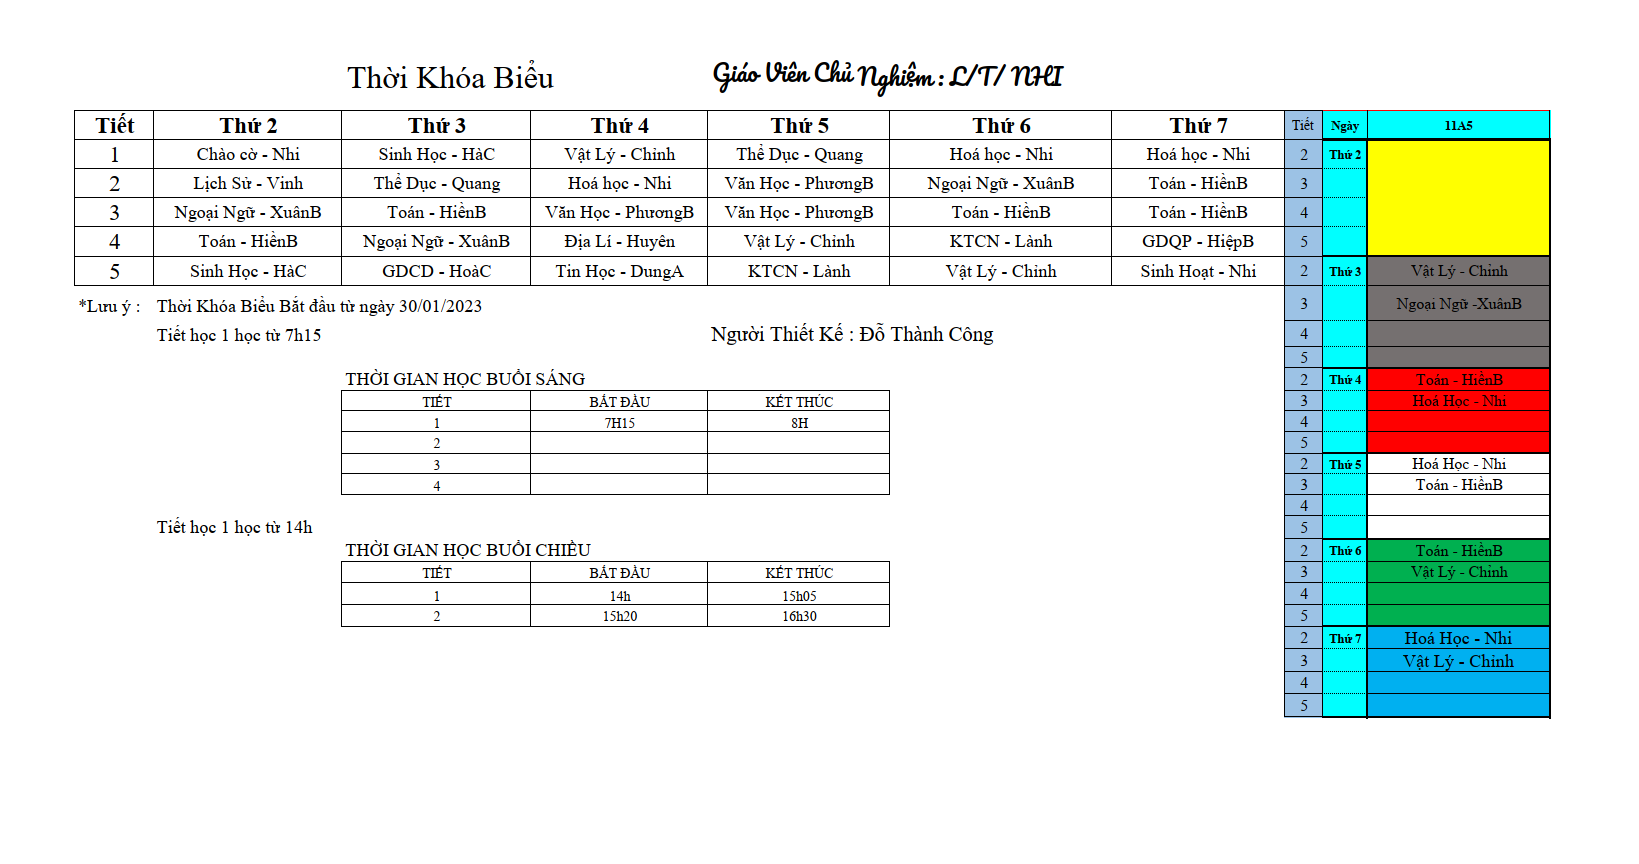
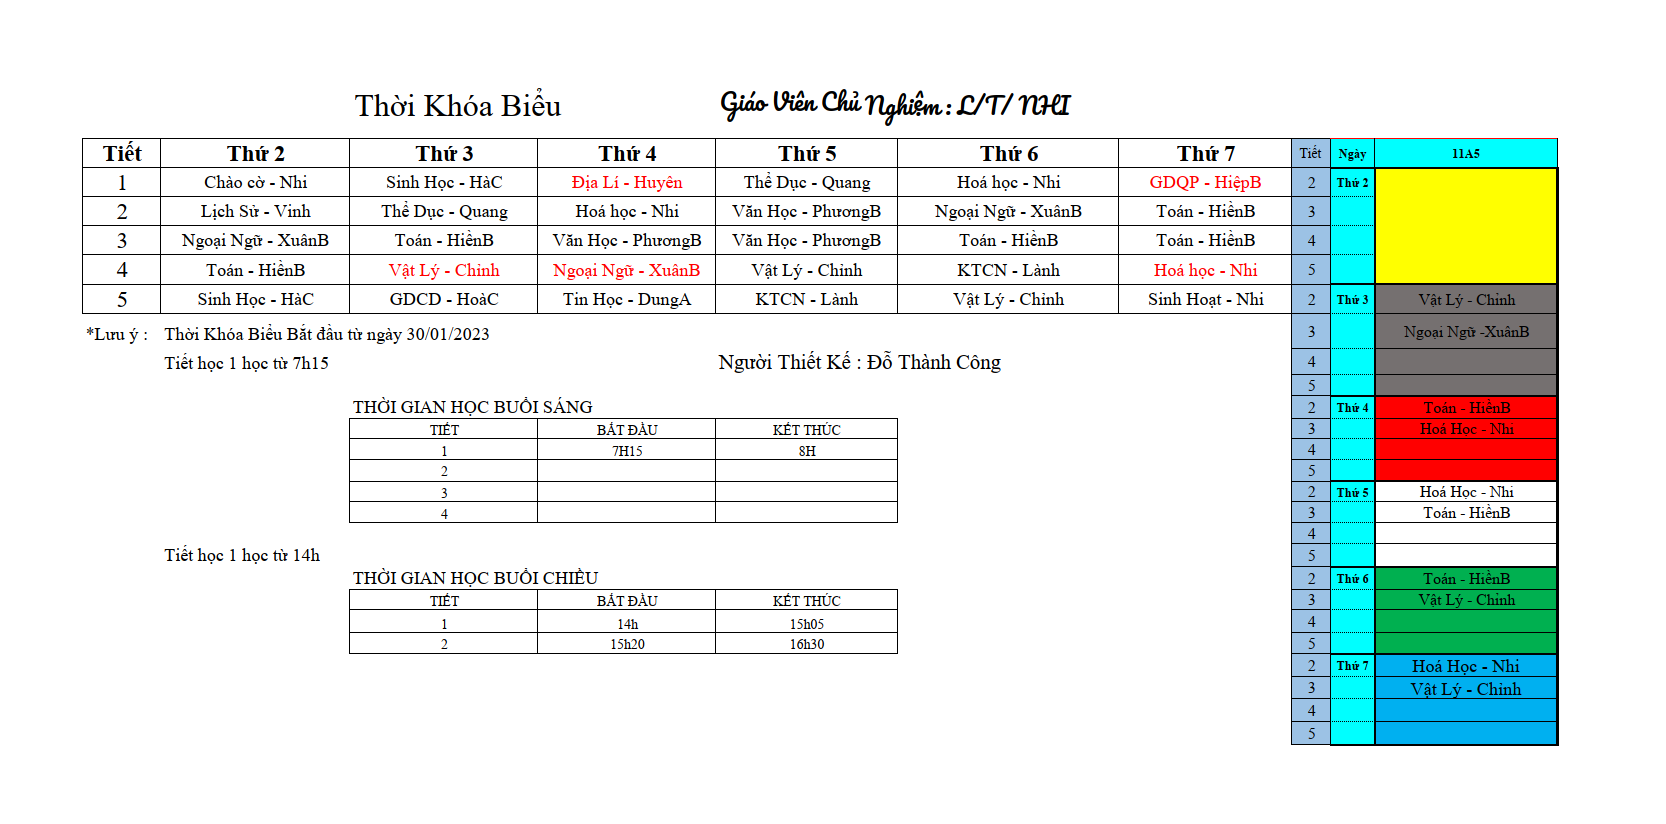
fix update TKB6-11

Changed region(s): [[0.0311, 0.0607, 0.9646, 0.9102], [0.0933, 0.6068, 0.529, 0.7888], [0.4045, 0.6068, 0.4356, 0.6371]]

diff --git a/data/THPT/11/TKB6.html b/data/THPT/11/TKB6.html
@@ -76,15 +76,15 @@
             <td data-label="Tiết 1">Sinh Học - HàC</td>
             <td data-label="Tiết 2">Thể Dục - Quang</td>
             <td data-label="Tiết 3">Toán - HiềnB</td>
-            <td data-label="Tiết 4">Ngoại Ngữ - XuânB </td>
+            <td color="red" data-label="Tiết 4"> <font color="red">Vật Lý - Chỉnh</font>  </td>
             <td data-label="Tiết 5">GDCD - HoàC</td>
           </tr>
           <tr>
             <td data-label="Thứ ">4</td>
-            <td data-label="Tiết 1">Vật Lý - Chỉnh</td>
+            <td color="red" data-label="Tiết 1"><font color="red">Địa Lí - Huyên</font></td>
             <td data-label="Tiết 2">Hoá học - Nhi</td>
             <td data-label="Tiết 3">Văn Học - PhươngB</td>
-            <td data-label="Tiết 4">Địa Lí - Huyên</td>
+            <td color="red" data-label="Tiết 4"> <font color="red">Ngoại Ngữ - XuânB</font></td>
             <td data-label="Tiết 5">Tin Học - DungA</td>
           </tr>
           <tr>
@@ -105,10 +105,10 @@
           </tr>
           <tr>
             <td data-label="Thứ ">7</td>
-            <td data-label="Tiết 1">Hoá học - Nhi </td>
+            <td color="red" data-label="Tiết 1"><font color="red">GDQP - HiệpB</font></td>
             <td data-label="Tiết 2">Toán - HiềnB </td>
             <td data-label="Tiết 3">Toán - HiềnB </td>
-            <td data-label="Tiết 4">GDQP - HiệpB </td>
+            <td color="red" data-label="Tiết 4"> <font color="red">Hoá học - Nhi</font></td>
             <td data-label="Tiết 5">Sinh Hoạt - Nhi </td>
           </tr>
         </tbody>
